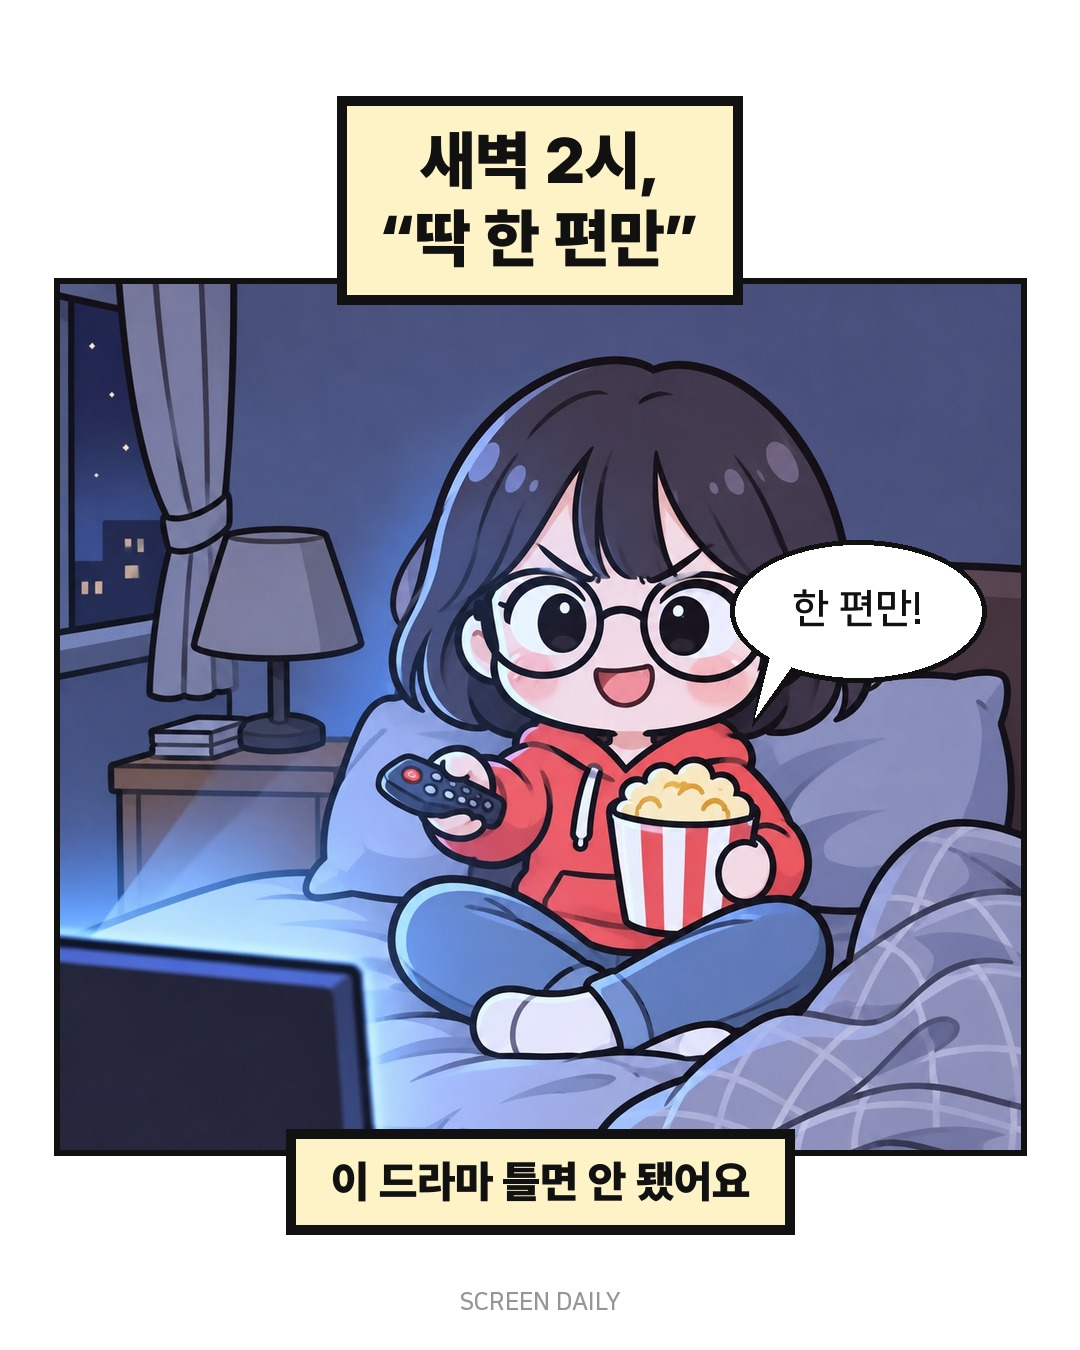
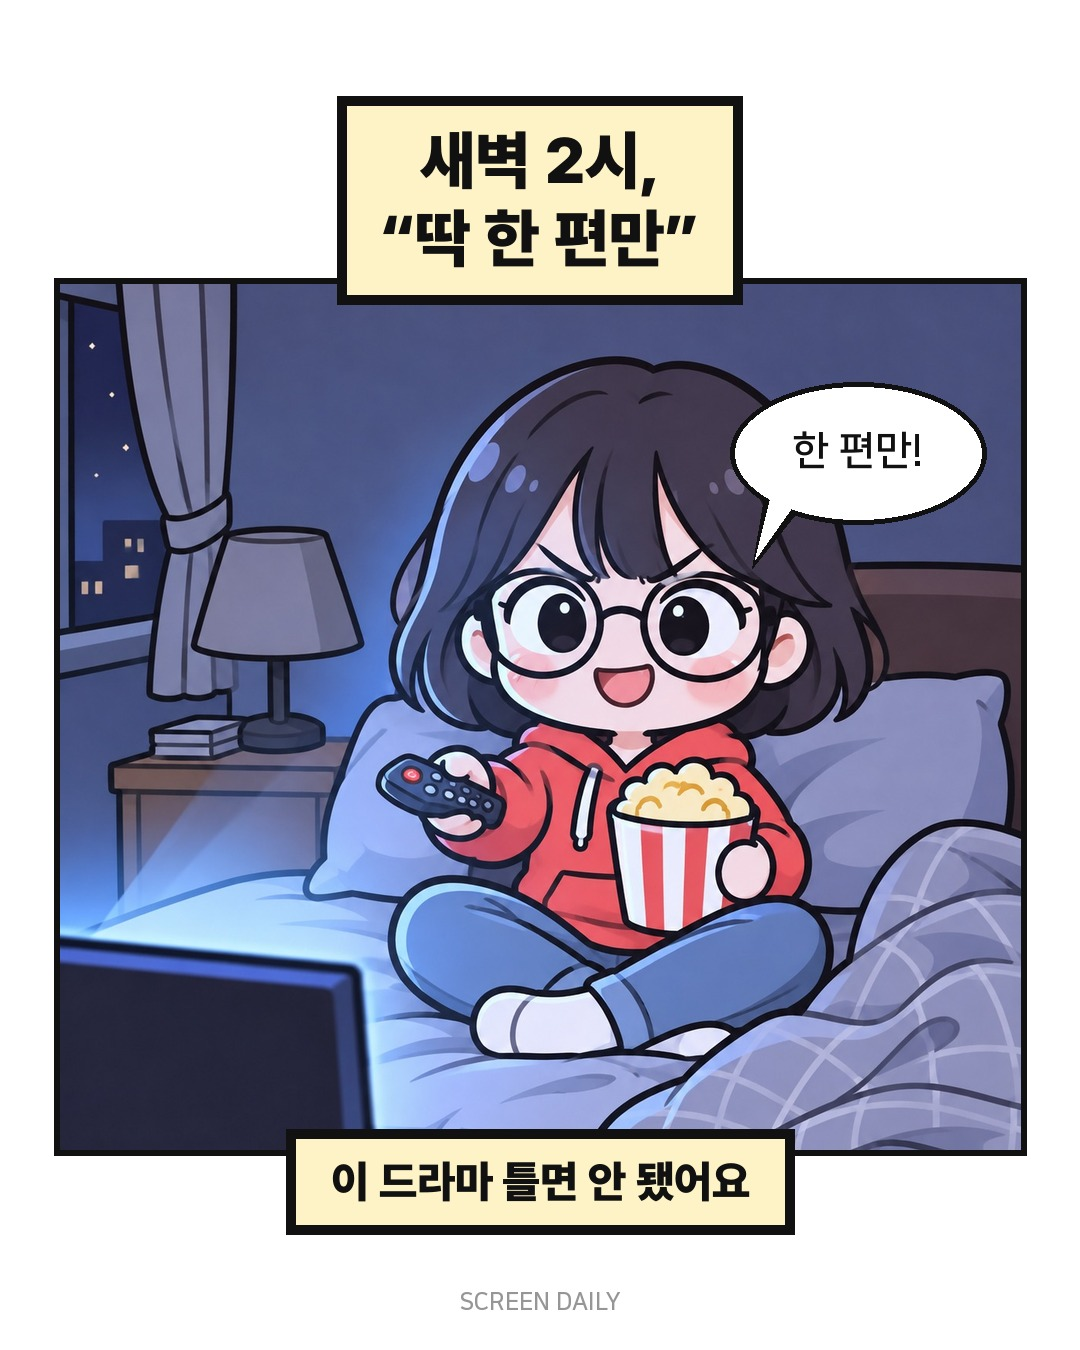
인스타툰: 말풍선 위치 옵션(bubble_pos) + 5장 지하철 그림 추가
Claude-Session: https://claude.ai/code/session_013eU9uqrorWHrk6VFFtZuuG

Changed region(s): [[0.6722, 0.28, 0.9167, 0.5289]]

diff --git a/screendaily/cards.py b/screendaily/cards.py
@@ -1409,7 +1409,7 @@ def toon_bubble(text: str, size: int = 40, tail: str = "left") -> Image.Image:
 
 
 def _toon_card(top: str, bottom: str, im: Image.Image | None, bubble: str, idx: int, config: dict,
-               top_size: int = 50, top_lines: int = 2, focus=(0.5, 0.4)) -> Image.Image:
+               top_size: int = 50, top_lines: int = 2, focus=(0.5, 0.4), pos: str = "") -> Image.Image:
     canvas = Image.new("RGBA", (W, H), TOON_BG + (255,))
     d = ImageDraw.Draw(canvas)
     big = im is None  # 그림 없는 칸은 글자를 크게
@@ -1442,11 +1442,13 @@ def _toon_card(top: str, bottom: str, im: Image.Image | None, bubble: str, idx: 
             _toon_box(d, bl, y_bot)
         img_box = (ix0, iy0, ix1, iy1)
     if bubble:
-        right = idx % 2 == 0
+        pos = (pos or "").lower()
+        right = "right" in pos if ("right" in pos or "left" in pos) else idx % 2 == 0
         b = toon_bubble(bubble, tail="left" if right else "right")
         if img_box:
             cx = img_box[2] - b.width // 2 + 10 if right else img_box[0] + b.width // 2 - 10
-            cy = img_box[1] + (img_box[3] - img_box[1]) * 0.38
+            ry = 0.2 if "top" in pos else 0.62 if "bottom" in pos else 0.38
+            cy = max(img_box[1] + b.height // 2 + 20, img_box[1] + (img_box[3] - img_box[1]) * ry)
         else:
             first = (W - (tl or bl)[2]) // 2 + 60  # 첫 상자 바로 위, 상자 모서리에 걸치게
             h = (tl[3] if tl else 0) + (bl[3] if bl else 0) + (60 if tl and bl else 0)
@@ -1458,7 +1460,8 @@ def _toon_card(top: str, bottom: str, im: Image.Image | None, bubble: str, idx: 
 
 
 def render_toon(post: Post, item: Item, idx: int, total: int, config: dict) -> Image.Image:
-    return _toon_card(item.title, item.desc, open_img(post.asset(item.image)), item.bubble, idx, config)
+    return _toon_card(item.title, item.desc, open_img(post.asset(item.image)), item.bubble, idx, config,
+                      pos=item.bubble_pos)
 
 
 def render_toon_cover(post: Post, config: dict) -> Image.Image:
@@ -1466,7 +1469,7 @@ def render_toon_cover(post: Post, config: dict) -> Image.Image:
     if im is None:
         im = next((open_img(post.asset(it.image)) for it in post.items if it.image), None)
     return _toon_card(post.title, post.subtitle, im, post.bubble, 0, config, top_size=64, top_lines=3,
-                      focus=_focus(post))
+                      focus=_focus(post), pos=post.bubble_pos)
 
 
 def render_all(post: Post, config: dict) -> list[Image.Image]:

diff --git a/screendaily/post.py b/screendaily/post.py
@@ -53,6 +53,7 @@ class Item:
     stage: str = ""   # 배우 스토리: 단계 표시 (예: 데뷔, 첫 주연, 전환점)
     type: str = ""    # story = 글 중심 이야기 카드, quote = 인용 카드 (작품 사진 없음), deal = 사진 + 두 줄 할인 카드, coupon = 쿠폰 티켓 정보 카드, steps = 혜택 받는 법(STEP), list = 분야별 혜택 모음(사진 + 목록), toon = 인스타툰 칸(위 상자 title + 가운데 그림 + 아래 상자 desc)
     note: str = ""    # list 카드 맨 아래 작은 안내 (줄바꿈으로 여러 줄)
+    bubble_pos: str = ""  # 인스타툰 말풍선 위치: left / right + top / bottom (예: "left-top"). 비우면 장마다 번갈아
     brand: str = ""   # 이야기 카드 색을 config.yml brands: 의 브랜드 색으로 (예: SKT, KT, LGU)
 
 
@@ -65,6 +66,7 @@ class Post:
     label: str = "MOOD"
     subtitle: str = ""
     bubble: str = ""
+    bubble_pos: str = ""       # 인스타툰 표지 말풍선 위치 (items 의 bubble_pos 와 같음)
     theme: str = "dark"
     cover_image: str = ""
     items: list[Item] = field(default_factory=list)
@@ -280,6 +282,7 @@ def load_post(slot_dir: Path, config: dict) -> Post:
         brand=str(raw.get("brand", "") or ""),
         channel=str(raw.get("channel", "") or ""),
         cover_style=str(raw.get("cover_style", "") or ""),
+        bubble_pos=str(raw.get("bubble_pos", "") or ""),
         alarm=str(raw.get("alarm", "") or ""),
         cover_focus=str(raw.get("cover_focus", "") or ""),
         cover_fit=str(raw.get("cover_fit", "") or ""),
